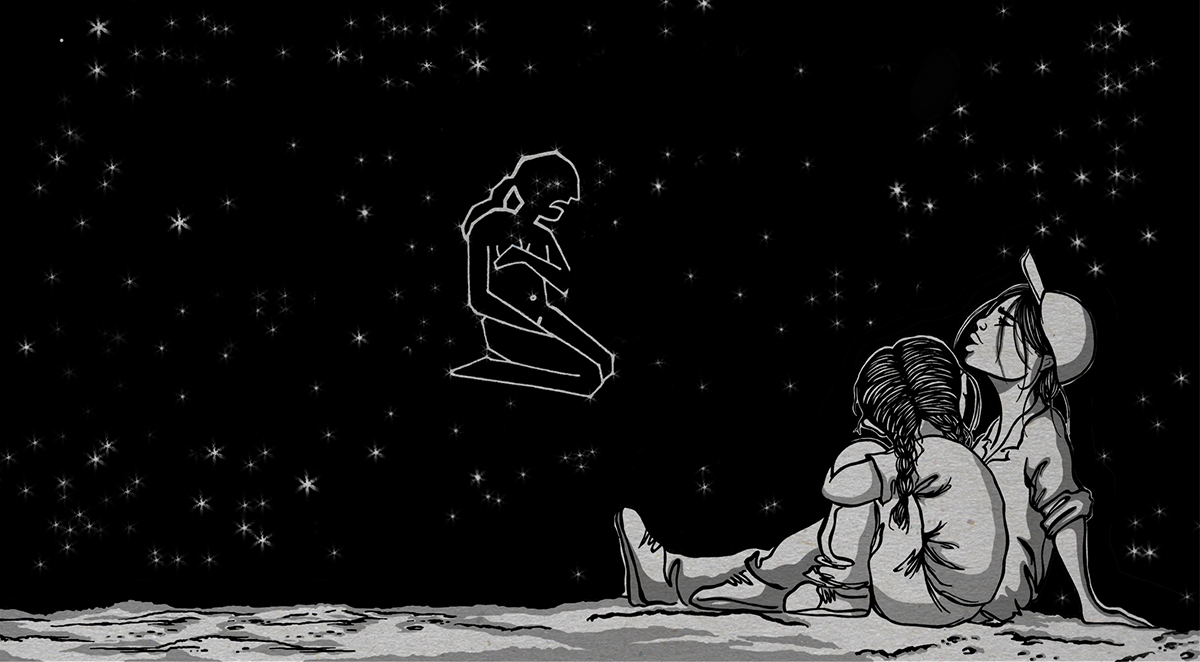
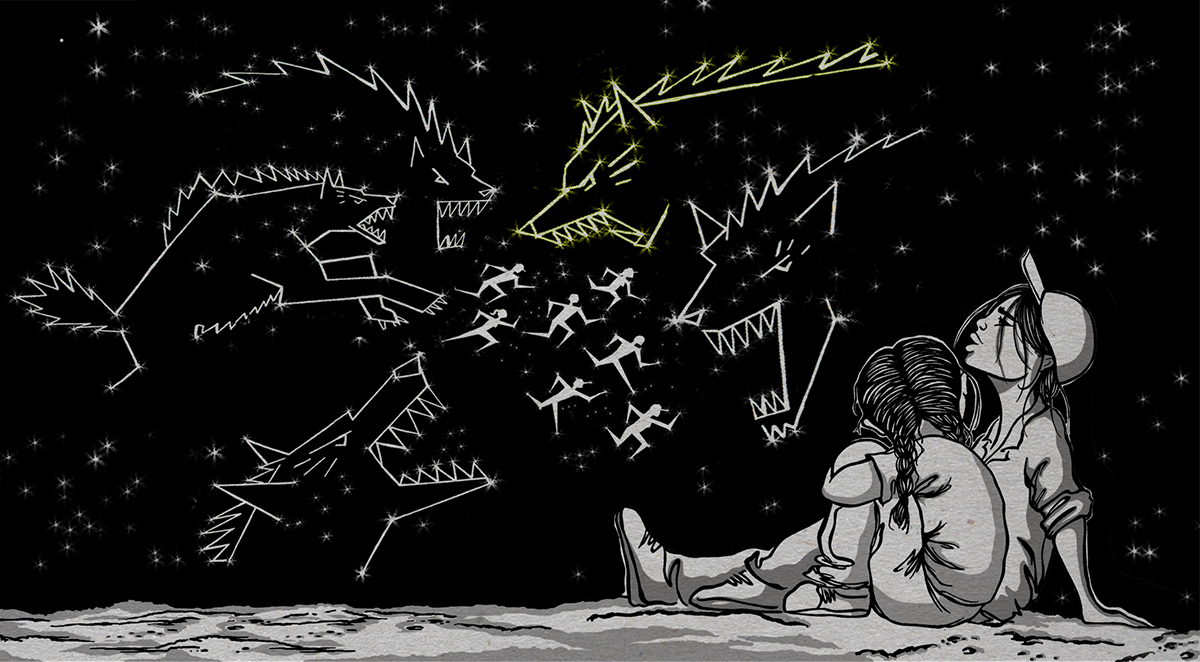
capitulo 3

diff --git a/index.html b/index.html
@@ -289,10 +289,7 @@
 	                    <img src="images/capitulo03/escena-3/buscando-el-norte-capitulo03-escena-3-3.jpg" id="imgbg-capitulo03-scena-3-3" style="display: none;">
 	                    <img src="images/capitulo03/escena-3/buscando-el-norte-capitulo03-escena-3-4.jpg" id="imgbg-capitulo03-scena-3-4" style="display: none;">
 	                    <img src="images/capitulo03/escena-3/buscando-el-norte-capitulo03-escena-3-5.jpg" id="imgbg-capitulo03-scena-3-5" style="display: none;">
-	                    <img src="images/capitulo03/escena-3/buscando-el-norte-capitulo03-escena-3-6.jpg" id="imgbg-capitulo03-scena-3-6" style="display: none;">
-	                    <img src="images/capitulo03/escena-3/buscando-el-norte-capitulo03-escena-3-7.jpg" id="imgbg-capitulo03-scena-3-7" style="display: none;">
-	                    <img src="images/capitulo03/escena-3/buscando-el-norte-capitulo03-escena-3-8.jpg" id="imgbg-capitulo03-scena-3-8" style="display: none;">
-	                    <img src="images/capitulo03/escena-3/buscando-el-norte-capitulo03-escena-3-9.jpg" id="imgbg-capitulo03-scena-3-9" style="display: none;">
+	                    
 	                    
 	                    <img src="images/capitulo03/escena-4/buscando-el-norte-capitulo03-escena-4-1.jpg" id="imgbg-capitulo03-scena-4-1" style="display: none;">
                      	<img src="images/capitulo03/escena-4/buscando-el-norte-capitulo03-escena-4-2.jpg" id="imgbg-capitulo03-scena-4-2" style="display: none;">

diff --git a/assets/js/functions.js b/assets/js/functions.js
@@ -9,7 +9,7 @@
 // Setup total images per chapter per scena
 	var totalimg_capitulo01_scena_1 = 4; var totalimg_capitulo01_scena_2 = 6; var totalimg_capitulo01_scena_3 = 2; var totalimg_capitulo01_scena_4 = 4; var totalimg_capitulo01_scena_5 = 3; var totalimg_capitulo01_scena_6 = 2;
 	var totalimg_capitulo02_scena_1 = 3; var totalimg_capitulo02_scena_2 = 2; var totalimg_capitulo02_scena_3 = 5; var totalimg_capitulo02_scena_4 = 4;
-	var totalimg_capitulo03_scena_1 = 7; var totalimg_capitulo03_scena_2 = 3; var totalimg_capitulo03_scena_3 = 9; var totalimg_capitulo03_scena_4 = 4;
+	var totalimg_capitulo03_scena_1 = 7; var totalimg_capitulo03_scena_2 = 3; var totalimg_capitulo03_scena_3 = 5; var totalimg_capitulo03_scena_4 = 4;
 	
 	//setup time when the image is displayed
 	var timeimg_capitulo01_scena_1 = [8, 19, 25, 27]; 
@@ -24,10 +24,10 @@
 	var timeimg_capitulo02_scena_3 = [10, 28, 36, 42, 49];
 	var timeimg_capitulo02_scena_4 = [16, 25, 43, 120];
 	
-	var timeimg_capitulo03_scena_1 = [5, 10, 15, 20, 25, 30, 35]; 
-	var timeimg_capitulo03_scena_2 = [11, 19, 25];
-	var timeimg_capitulo03_scena_3 = [5, 9, 15, 20, 25, 30, 34, 38, 42];
-	var timeimg_capitulo03_scena_4 = [12, 20, 25, 30];
+	var timeimg_capitulo03_scena_1 = [11, 25, 32, 36, 46, 50, 64]; 
+	var timeimg_capitulo03_scena_2 = [12, 31, 35];
+	var timeimg_capitulo03_scena_3 = [13, 30, 42, 51, 82];
+	var timeimg_capitulo03_scena_4 = [22, 34, 36, 53];
 	
 	var current_scena_number = 1;
 	var current_chapter = "capitulo01";
